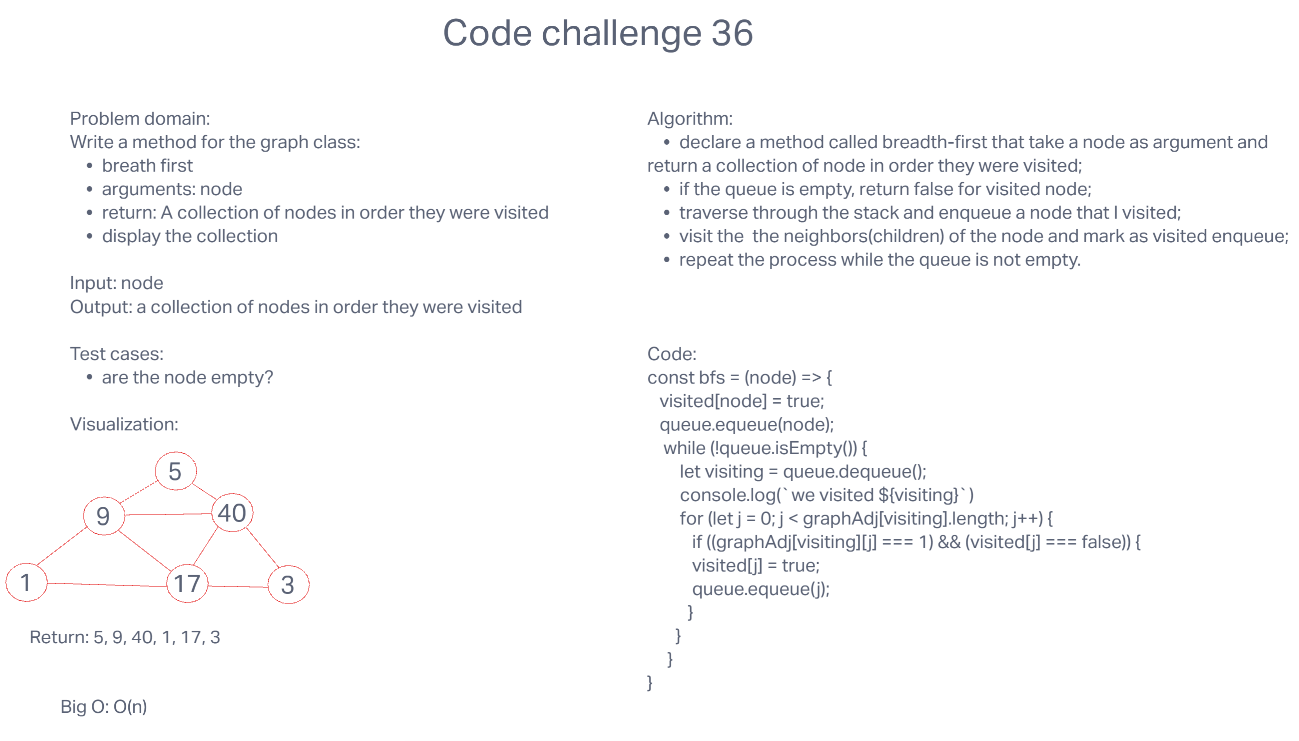
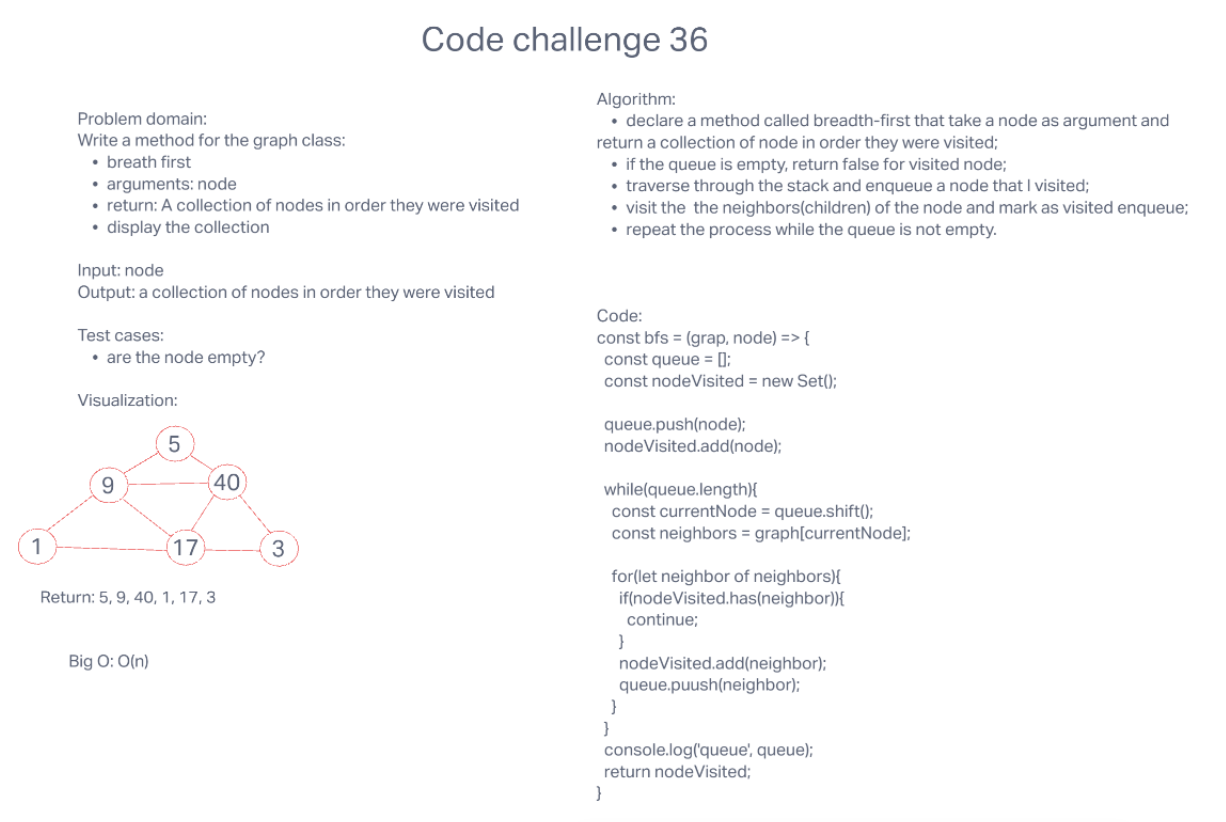
added code challenge 36

diff --git a/javascript/graph-breadth-first/graph-breadth-first.js b/javascript/graph-breadth-first/graph-breadth-first.js
@@ -1,0 +1,28 @@
+'use strict';
+
+const bfs = (grap, node) => {
+  const queue = [];
+  const nodeVisited = new Set();
+
+  queue.push(node);
+  nodeVisited.add(node);
+
+  while(queue.length){
+    const currentNode = queue.shift();
+    const neighbors = graph[currentNode];
+
+    for(let neighbor of neighbors){
+      if(nodeVisited.has(neighbor)){
+        continue;
+      }
+      nodeVisited.add(neighbor);
+      queue.puush(neighbor);
+    }
+  }
+  console.log('queue', queue);
+  return nodeVisited;
+}
+
+module.exports = bfs;
+
+

diff --git a/javascript/graph-breadth-first/graph-breadth-first-test.js b/javascript/graph-breadth-first/graph-breadth-first-test.js
@@ -1,0 +1,22 @@
+'use strict';
+
+const { describe } = require('eslint/lib/rule-tester/rule-tester');
+const bfs = require('./graph-breadth-first');
+
+describe('breadthFirst', () => {
+  it('should return a set of all nodes visited', () => {
+    const graph = {
+      a: ['b', 'c', 'd'],
+      b: ['a', 'd'],
+      c: ['a', 'e'],
+      d: ['a', 'b'],
+      e: ['c'],
+      f: ['g'],
+      g: ['f'],
+    };
+
+    const nodes = bfs(graph, 'a');
+    expect(nodes).toEqual(new Set(['a', 'b', 'c', 'd', 'e']));
+  });
+});
+

diff --git a/javascript/graph-breadth-first/README.md b/javascript/graph-breadth-first/README.md
@@ -23,30 +23,27 @@ return a collection of node in order they were visited;
 
 ## Solution
 
-const bfs = (node) => {
+const bfs = (grap, node) => {
+  const queue = [];
+  const nodeVisited = new Set();
 
-   visited[node] = true;
+  queue.push(node);
+  nodeVisited.add(node);
 
-   queue.equeue(node);
+  while(queue.length){
+    const currentNode = queue.shift();
+    const neighbors = graph[currentNode];
 
-    while (!queue.isEmpty()) {
-
-        let visiting = queue.dequeue();
-
-        console.log(`we visited ${visiting}`)
-
-        for (let j = 0; j < graphAdj[visiting].length; j++) {
-
-           if ((graphAdj[visiting][j] === 1) && (visited[j] === false)) {
-
-           visited[j] = true;
-
-           queue.equeue(j);
-
-          }
-
-       }
-
-     }
-
+    for(let neighbor of neighbors){
+      if(nodeVisited.has(neighbor)){
+        continue;
+      }
+      nodeVisited.add(neighbor);
+      queue.puush(neighbor);
+    }
+  }
+  console.log('queue', queue);
+  return nodeVisited;
 }
+
+module.exports = bfs;
